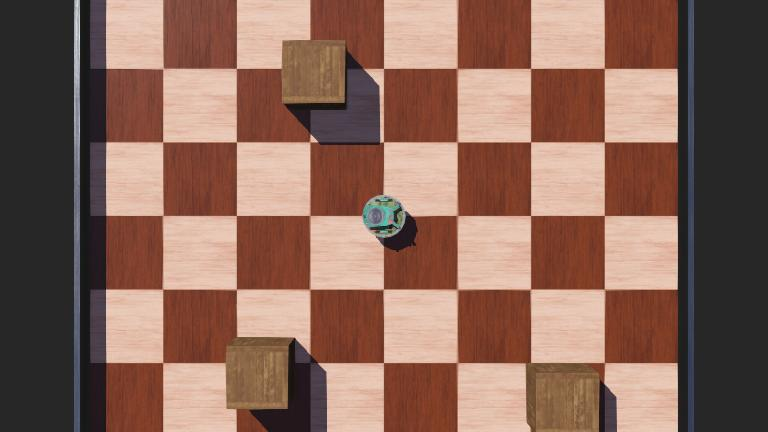
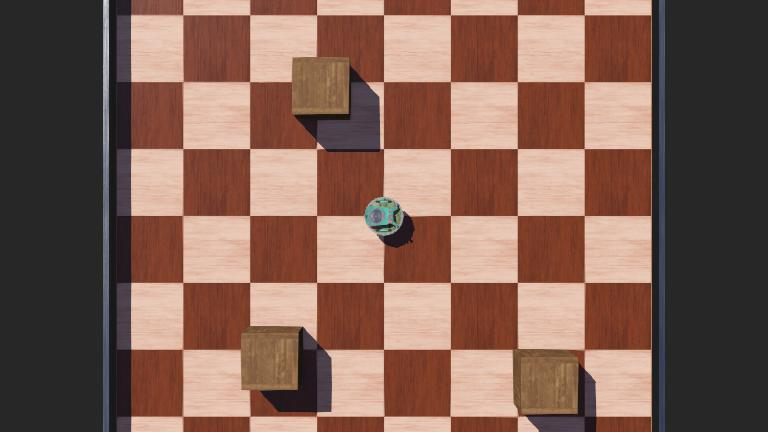
updated controllers

diff --git a/MySecondSimulation/controllers/MySecondControllerSln3/MySecondControllerSln3.cpp b/MySecondSimulation/controllers/MySecondControllerSln3/MySecondControllerSln3.cpp
@@ -1,4 +1,4 @@
-// File:          MySecondControllerSln2.cpp
+// File:          MySecondControllerSln3.cpp
 // Date:
 // Description:
 // Author:

diff --git a/MySecondSimulation/controllers/MySecondControllerSln1/MySecondControllerSln1.cpp b/MySecondSimulation/controllers/MySecondControllerSln1/MySecondControllerSln1.cpp
@@ -1,4 +1,4 @@
-// File:          MySecondControllerSln.cpp
+// File:          MySecondControllerSln1.cpp
 // Date:
 // Description:
 // Author:

diff --git a/MySecondSimulation/controllers/MySecondControllerSln2/MySecondControllerSln2.cpp b/MySecondSimulation/controllers/MySecondControllerSln2/MySecondControllerSln2.cpp
@@ -1,4 +1,4 @@
-// File:          MySecondControllerSln.cpp
+// File:          MySecondControllerSln2.cpp
 // Date:
 // Description:
 // Author:
